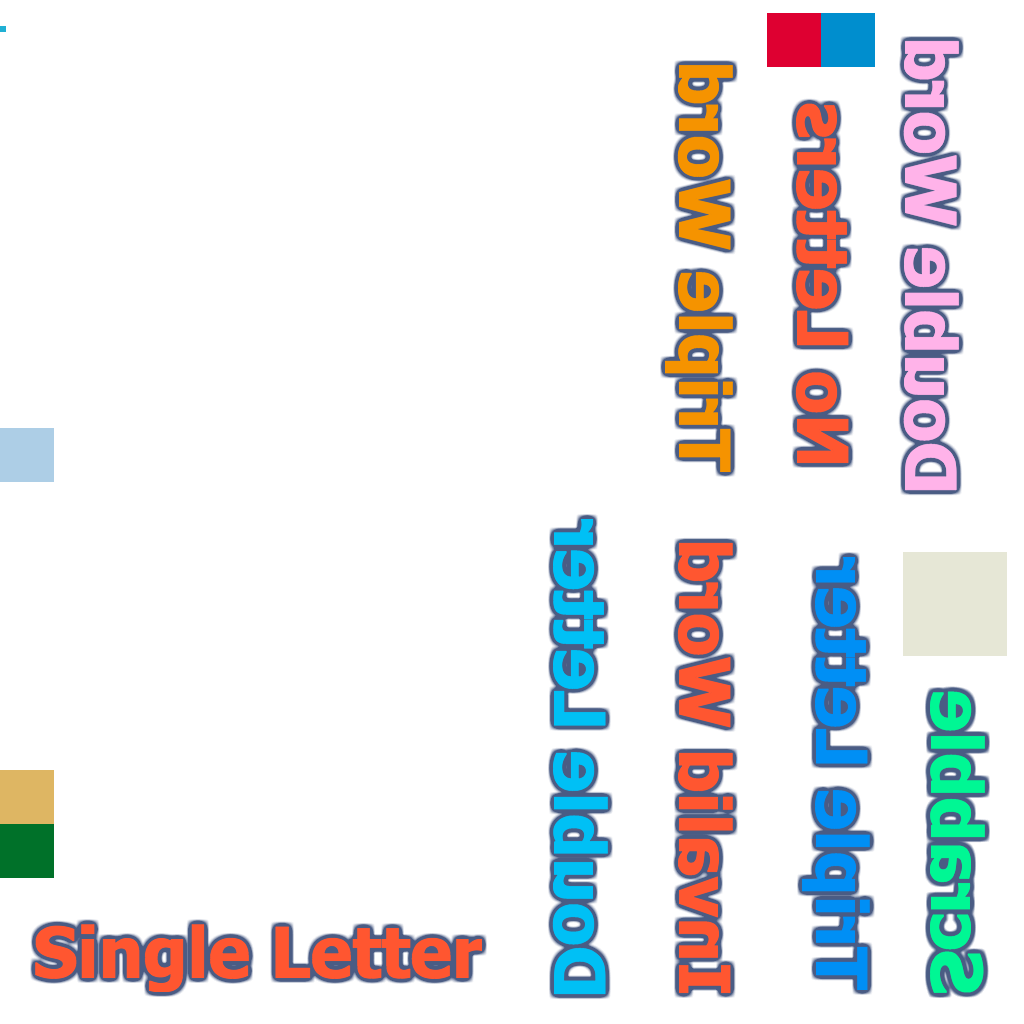
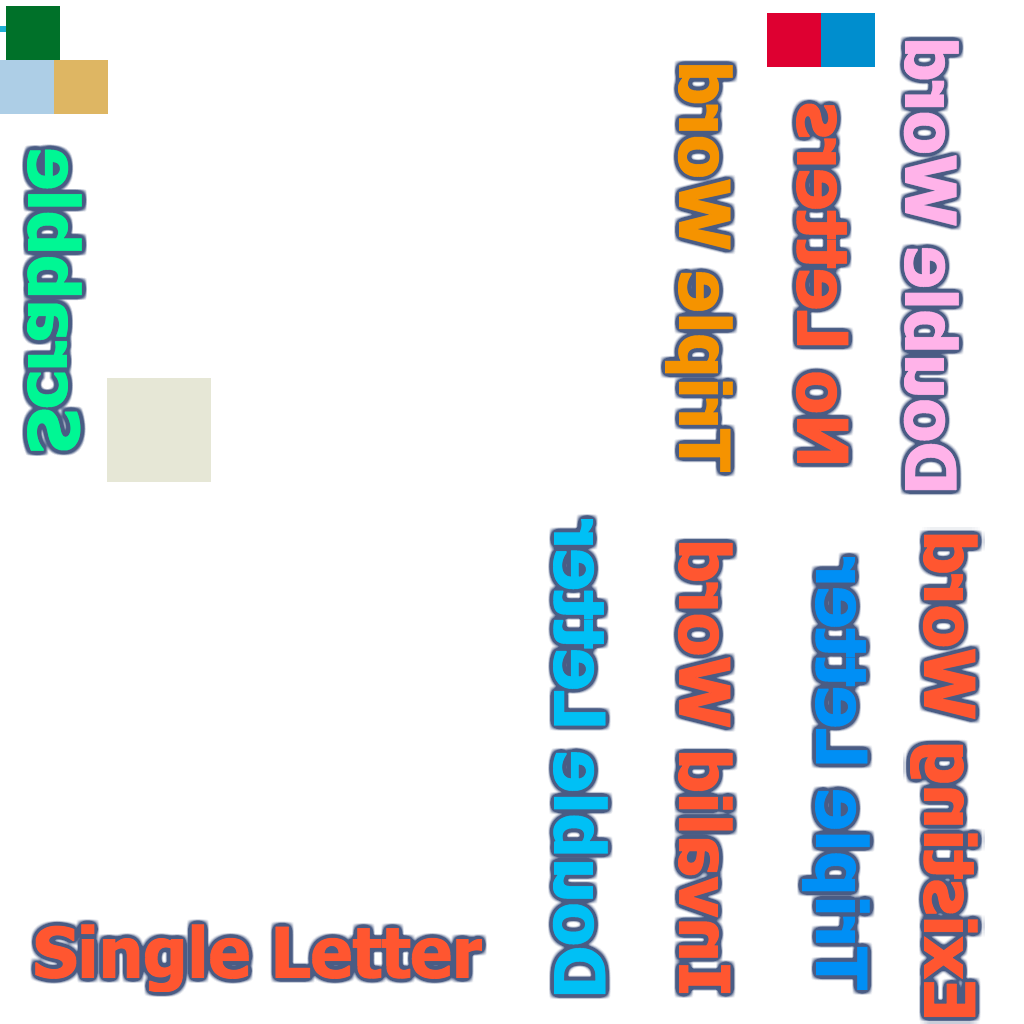
Integrated existing word.

Changed region(s): [[0.0, 0.0, 0.2188, 0.4688], [0.875, 0.5, 1.0, 1.0], [0.0, 0.75, 0.0625, 0.875]]

diff --git a/ScrabbleProject/Assets/Scrabble/Classes/Components/MGEffects.cs b/ScrabbleProject/Assets/Scrabble/Classes/Components/MGEffects.cs
@@ -25,15 +25,6 @@ namespace MGTools
 
 	public class MGEffects : MonoBehaviour 
 	{
-		public static readonly string IMG_SB = "txt_scrabble";
-		public static readonly string IMG_TW = "txt_triple_word";
-		public static readonly string IMG_DW = "txt_double_word";
-		public static readonly string IMG_TL = "txt_triple_letter";
-		public static readonly string IMG_DL = "txt_double_letter";
-		public static readonly string IMG_NL = "txt_no_letters";
-		public static readonly string IMG_SL = "txt_single_letters";
-		public static readonly string IMG_IW = "txt_invalid_word";
-
 		public static readonly Dictionary<ETileType, EScrabbleEffects> EFFECTS = new Dictionary<ETileType, EScrabbleEffects>()
 		{
 			{ ETileType.TW, EScrabbleEffects.TripleWord },
@@ -51,6 +42,7 @@ namespace MGTools
 		[SerializeField] private tk2dSprite m_invalidWord;
 		[SerializeField] private tk2dSprite m_singleLetter;
 		[SerializeField] private tk2dSprite m_noLetters;
+		[SerializeField] private tk2dSprite m_existingWord;
 
 		private Dictionary<EScrabbleEffects, tk2dSprite> m_effects = new Dictionary<EScrabbleEffects, tk2dSprite>();
 		private Vector3 m_effectDefaultPos = new Vector3(-0.071638f, 0f, 0f);
@@ -67,6 +59,7 @@ namespace MGTools
 			m_effects.Add(EScrabbleEffects.InvalidWord, m_invalidWord);
 			m_effects.Add(EScrabbleEffects.SingleLetter, m_singleLetter);
 			m_effects.Add(EScrabbleEffects.NoLetters, m_noLetters);
+			m_effects.Add(EScrabbleEffects.ExistingWord, m_existingWord);
 
 			ScrabbleEvent.Instance.OnTriggerEvent += this.OnEventListened;
 		}

diff --git a/ScrabbleProject/Assets/Scrabble/Classes/Board/Rack.cs b/ScrabbleProject/Assets/Scrabble/Classes/Board/Rack.cs
@@ -193,6 +193,17 @@ namespace Board
 							this.CreateLetter(Letters.Instance.Letter());
 						}
 					}
+					
+					/*
+					// Debug 7 letter word
+					this.CreateLetter(ELetter.B);
+					this.CreateLetter(ELetter.U);
+					this.CreateLetter(ELetter.B);
+					this.CreateLetter(ELetter.B);
+					this.CreateLetter(ELetter.L);
+					this.CreateLetter(ELetter.E);
+					this.CreateLetter(ELetter.S);
+					*/
 				}
 				break;
 			}
